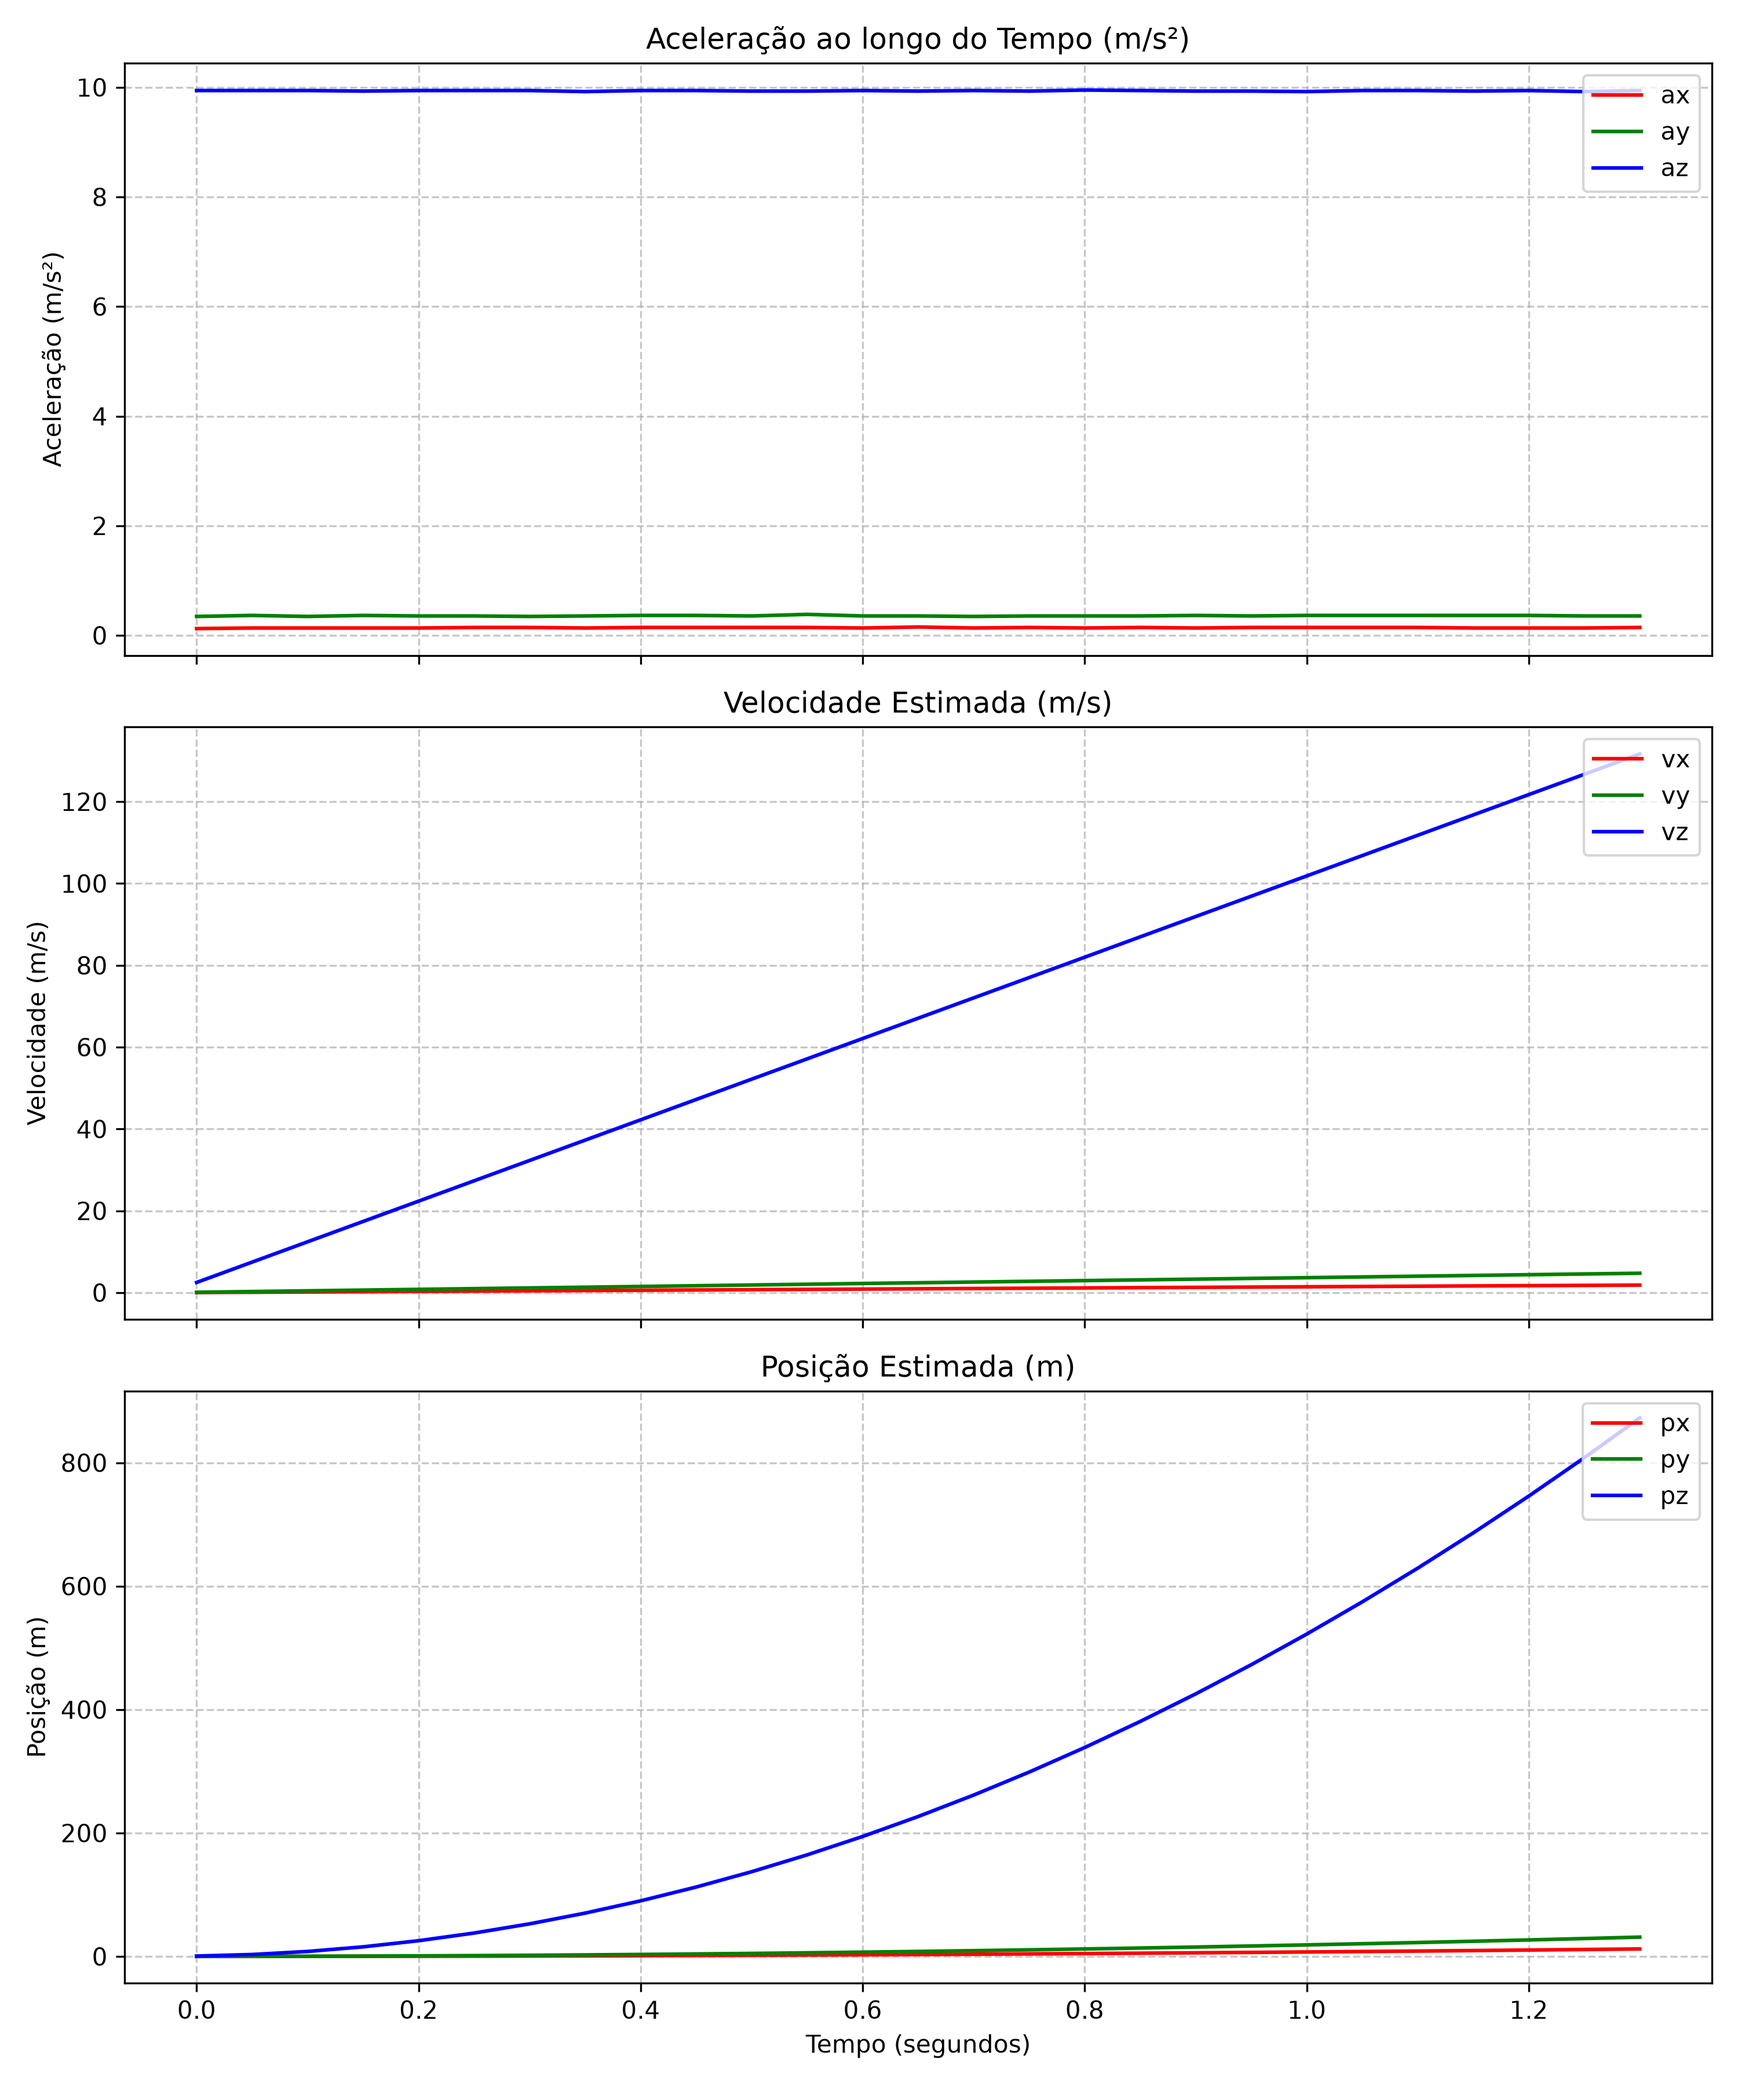
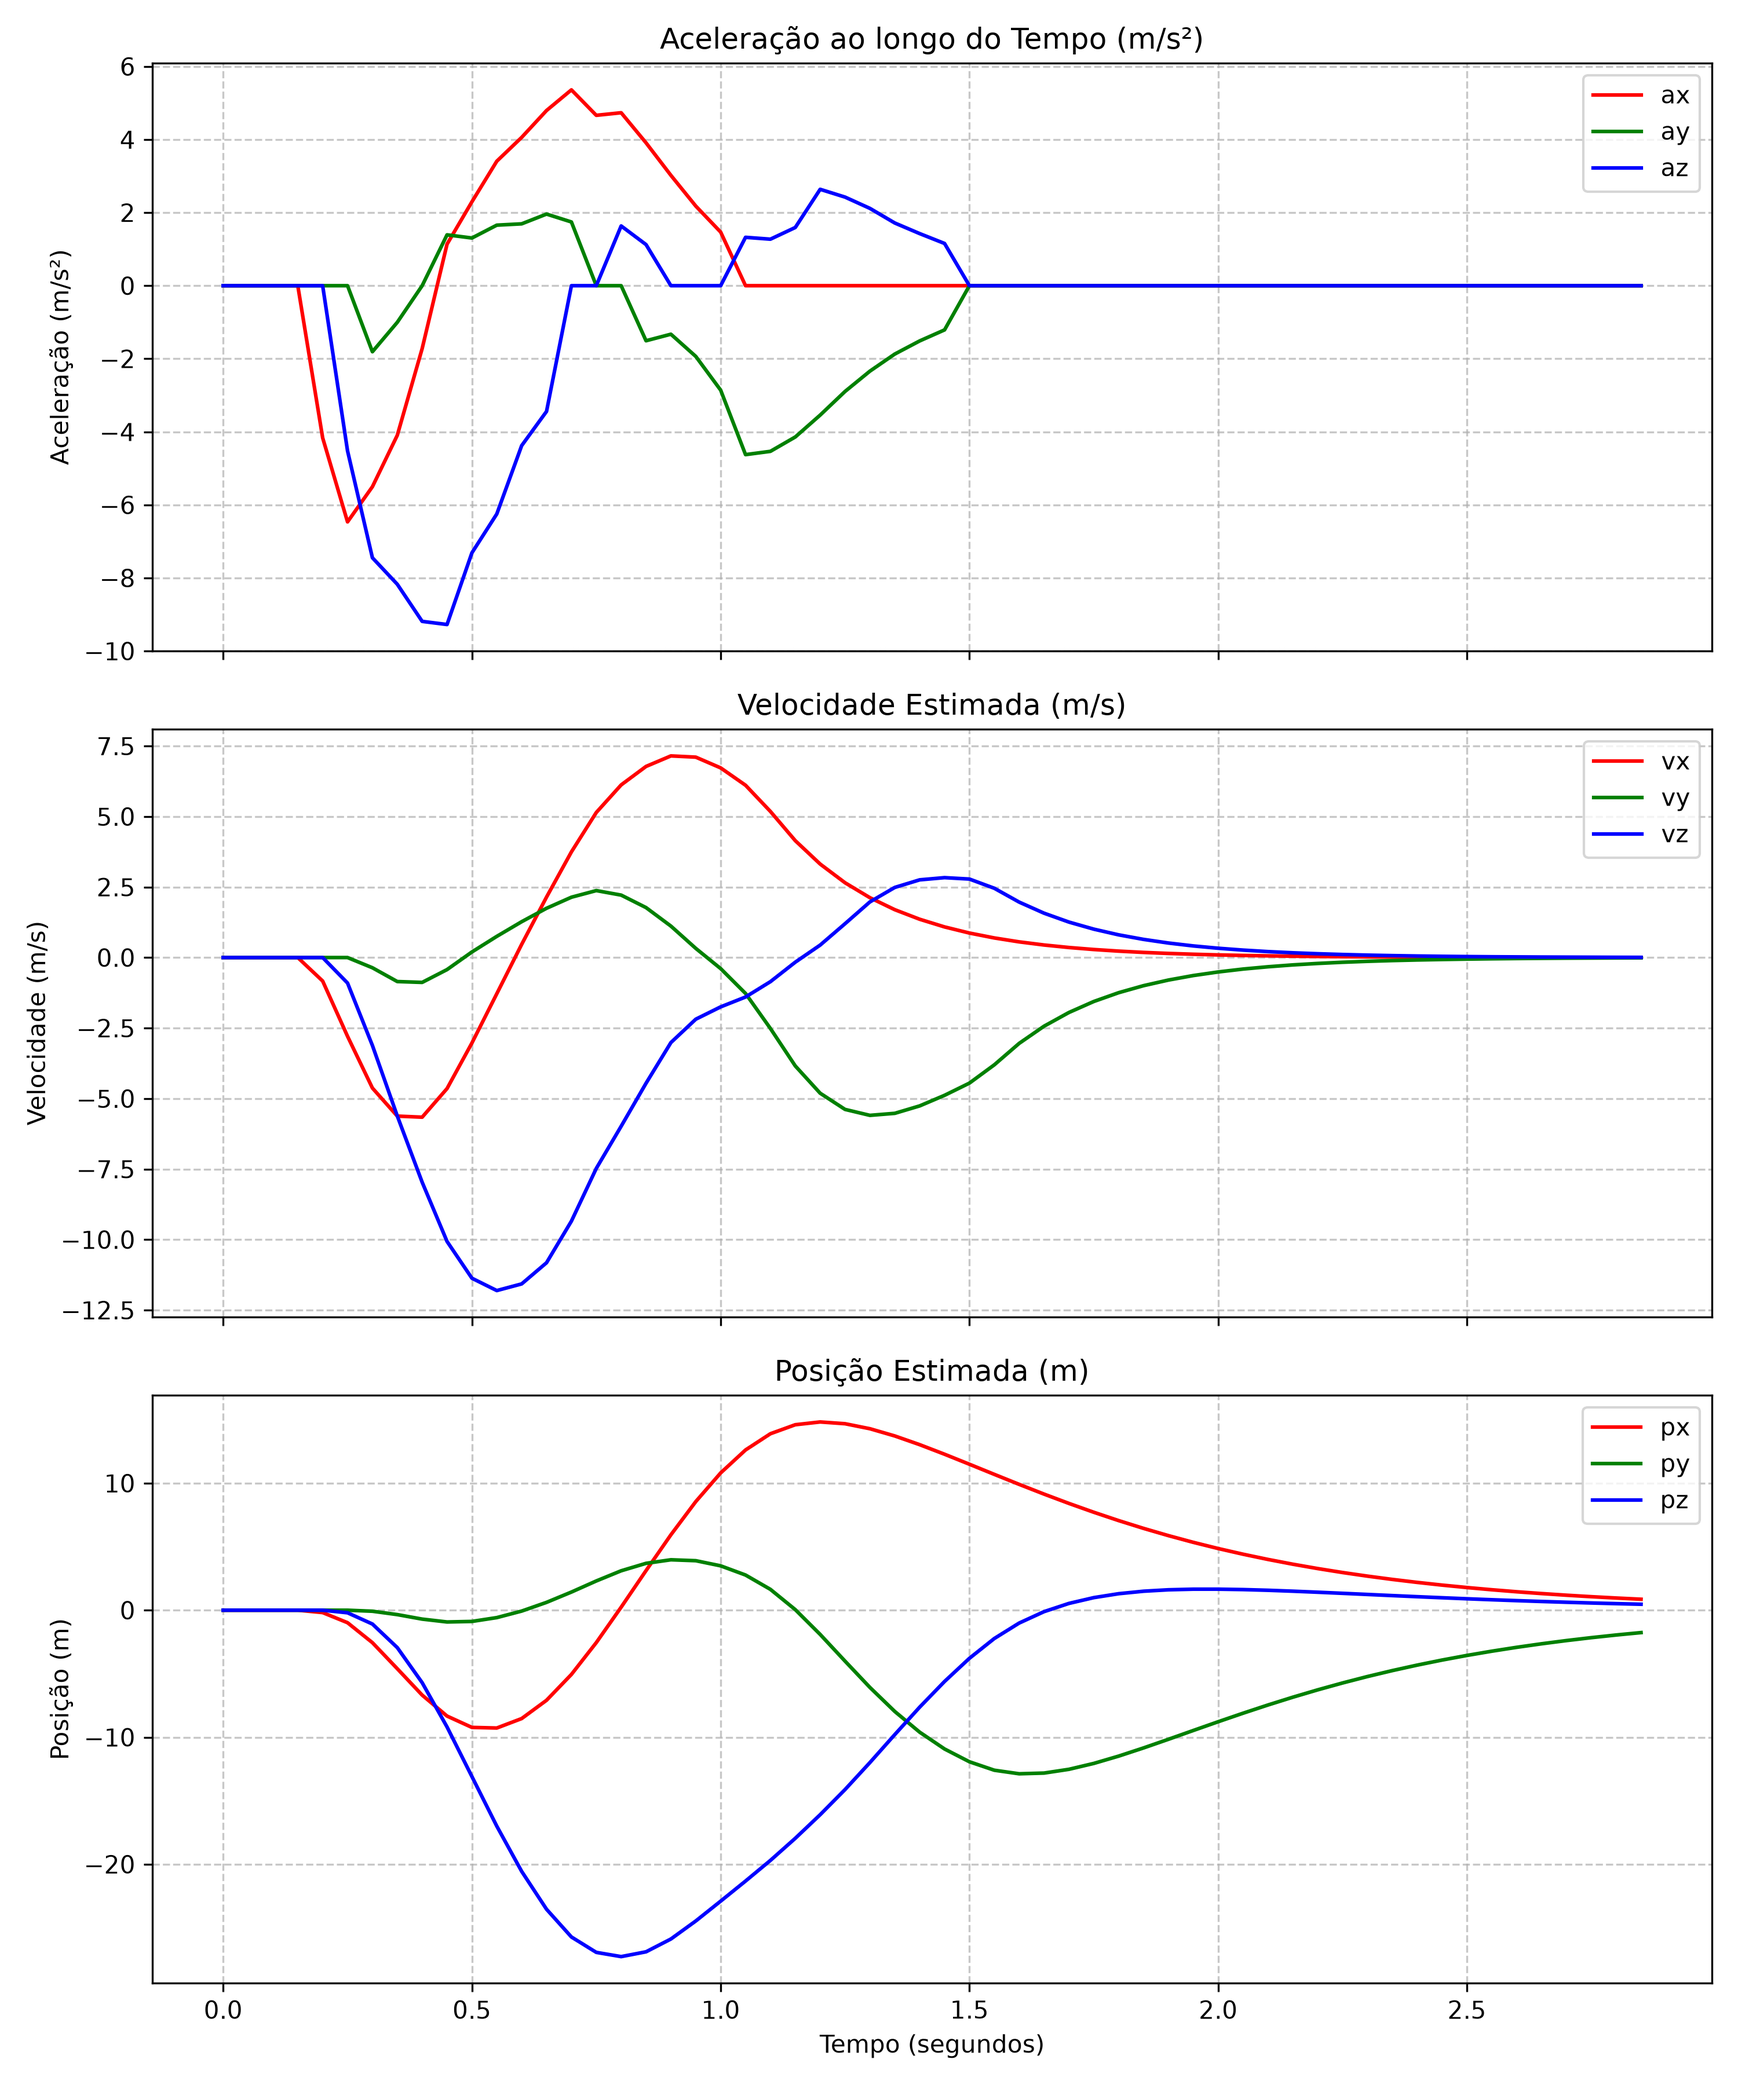
Versão definitiva

diff --git a/src/main.c b/src/main.c
@@ -20,14 +20,15 @@ void thread_aquisicao(void)
     struct sensor_value accel_x, accel_y, accel_z;
     int ret;
 
+    double grav_x = 0, grav_y = 0, grav_z = 9.81;
+
     // Verificar se o dispositivo está pronto
     if (!device_is_ready(accel)) {
         printk("ERRO: Acelerometro nao esta pronto!\n");
         return;
     }
 
-    // Pequeno delay antes de começar a enviar dados
-    k_sleep(K_MSEC(1000));
+    k_sleep(K_MSEC(1000));      // Pequeno delay antes de começar a enviar dados
 
     while (1) {
         // Solicitar leitura do sensor
@@ -44,9 +45,25 @@ void thread_aquisicao(void)
         sensor_channel_get(accel, SENSOR_CHAN_ACCEL_Y, &accel_y);
         sensor_channel_get(accel, SENSOR_CHAN_ACCEL_Z, &accel_z);
 
-		ax = sensor_value_to_double(&accel_x);
-		ay = sensor_value_to_double(&accel_y);
-		az = sensor_value_to_double(&accel_z);
+		double ax_bruto = sensor_value_to_double(&accel_x);
+		double ay_bruto = sensor_value_to_double(&accel_y);
+		double az_bruto = sensor_value_to_double(&accel_z);
+
+        // Filtro "aborve" 20% da leitura atual e mantém 80% do histórico.
+        // Calcula a componente gravitacional constante me qualquer inclinação
+        grav_x = (0.8 * grav_x) + (0.2 * ax_bruto);
+        grav_y = (0.8 * grav_y) + (0.2 * ay_bruto);
+        grav_z = (0.8 * grav_z) + (0.2 * az_bruto);
+
+        // Aceleração limpa = leitura bruta - componente da gravidade
+        double ax_mov = ax_bruto - grav_x;
+        double ay_mov = ay_bruto - grav_y;
+        double az_mov = az_bruto - grav_z;
+
+        // Zona morta: zera oscilações mínimas (ruídos) menores que 0.3 m/s^2
+        ax = (abs(ax_mov) < 0.3) ? 0 : ax_mov;
+        ay = (abs(ay_mov) < 0.3) ? 0 : ay_mov;
+        az = (abs(az_mov) < 0.3) ? 0 : az_mov;
 
         // Aguardar 500ms antes da próxima leitura
         k_sleep(K_MSEC(500));
@@ -63,6 +80,10 @@ void thread_calculo(void)
 	double ax_ant = 0, ay_ant = 0, az_ant = 0;
 	double vx_ant = 0, vy_ant = 0, vz_ant = 0;
 
+    // Fatores de recuo/atrito: puxam gradativamente os valores para 0 ao longo do tempo 
+    double atenuacao_v = 0.80;  // Velocidade decai 20% a cada meio segundo
+    double atenuacao_p = 0.90;  // Posicao decai 10% a cada meio segundo
+
     k_sleep(K_MSEC(1100));		// Espera a Thread 1 fazer a primeira leitura antes de começar
 
     while (1) {
@@ -71,10 +92,20 @@ void thread_calculo(void)
 		vy = vy_ant + (dt / 2.0) * (ay + ay_ant);
 		vz = vz_ant + (dt / 2.0) * (az + az_ant);
 
+        // Diminui gradativamente a velocidade
+        vx *= atenuacao_v;
+        vy *= atenuacao_v;
+        vz *= atenuacao_v;
+
         // Cálculo da Posição: p = p_anterior + (área do trapézio da velocidade)
 		px = px + (dt / 2.0) * (vx + vx_ant);
 		py = py + (dt / 2.0) * (vy + vy_ant);
 		pz = pz + (dt / 2.0) * (vz + vz_ant);
+
+        // Diminui gradativamente a posição
+        px *= atenuacao_p;
+        py *= atenuacao_p;
+        pz *= atenuacao_p;
 
         // Guarda os valores atuais para usar na próxima conta como "anteriores"
 		ax_ant = ax, ay_ant = ay, az_ant = az;
@@ -90,7 +121,7 @@ void thread_envio_serial(void)
 	k_sleep(K_MSEC(1200));
     
 	while (1) {
-		// Imprime os valores com algumas casas decimais
+		// Imprime os valores com algumas casas decimais (aceleracao, velocidade, posicao)
 		printk("%.3f, %.3f, %.3f, %.3f, %.3f, %.3f, %.3f, %.3f, %.3f\n", 
 				ax, ay, az, vx, vy, vz, px, py, pz);
 	
@@ -98,7 +129,9 @@ void thread_envio_serial(void)
 	}
 }
 
-	// Tamanho da pilha para cada thread
+//=============================================================================================================
+// 3. Declarações de Threads e de Prioridades
+    // Tamanho da pilha para cada thread
 	#define STACK_SIZE 1024
 
 	// Prioridades 

diff --git a/README.md b/README.md
@@ -1,27 +1,37 @@
-How to build PlatformIO based project
+Construção do Acelerometro
 =====================================
 
-1. [Install PlatformIO Core](https://docs.platformio.org/page/core.html)
-2. Download [development platform with examples](https://github.com/platformio/platform-freescalekinetis/archive/develop.zip)
-3. Extract ZIP archive
-4. Run these commands:
+Este código é uma demonstração do funcionamento do método acelerômetro MMA8451Q, tal qual envia dados da aceleração (x, y e z) a partir do movimento da placa micrcontroladora Freedom FRDM KL25Z pela porta serial para o terminal do computador. Há dois arquivos python que extraem a leitura destes valores e convertem na forma de um gráfico, sendo assim, fácil e intutivo de visualizar o movimento em tempo real da aceleração estimada e a partir disso, a velocidade e posição estimada.
+
+A arquitetura e estrutura do código é dado da seguinte forma:
+1. O código main.c contém toda a estrutura da leitura dos dados, calculo da velocidade e posição e também da saída de dados, sendo divida entre 3 threads:
+    1. Aquisição do Sinal do acelerômetro (extrai a aceleração ocasionada pela placa)
+    2. Cálculo da velocidade e posição, utilizando a integração por Trapézios 
+    3. Envio dos três dados pela serial
+
+Lógica e Arquitetura adotada: Para a comunicação entre as threads, foi utilizado variáveis globais para compartilhar os dados entre as tarefas. O escalonador do Zephyr gerencia as threads por prioridade, sendo da ordem mais importante para a menos: "leitura do sensor" (garante que não se perca amostras) >> "cálculo" (processa os dados de leitura) >> "envio serial" (apenas imprime o que já foi calculado)
 
 ```shell
-# Change directory to example
-$ cd platform-freescalekinetis/examples/zephyr-blink
+Observações: 
+             1° e 2° Commit contém apenas a estrutura padrão do acelerômetro, sobretudo, na parte de extração do sinal.
+             3° Commit apresenta o código funcional e pronto do acelerômetro, mas faltando detalhes e retoques para adptação aos arquivos python.
+             4° Commit apresenta o código adptado e funcional para os arquivos python, agora é possível extrair os dados e visualizar por meio de gráfico.
+             5° Commit é a versão final do código, nele, foi corrigido uma interpretação de que a placa está sempre em queda livre. Agora a placa apresenta um comportamento semelhante com a realidade
 
-# Build project
-$ pio run
+Adpatações feitas:
+             O arquivo leitor_serial.py foi alterado sob sugestões de IA generativa para que pudesse permitir registrar os valores seriais no arquivo .csv, tal arquivo armaneza a saída serial para ser lida pela geradora de gráfico, a sua versão anterior não permitia que lesse as impressões no serial, a alteração feita fez revogar isso e permitir qualquer tipo de leitura.
+             Para o código final, as adaptações feitas para suavizar e apaziguar o efeito "queda livre" foram feitas de maneira opcional, afim de complementar a tarefa encarregada.
 
-# Upload firmware
-$ pio run --target upload
+Como executar:
+             Como uma placa freddom em mãos, basta realizar build e compilar para a placa - verifique de ter limpado seu framework com "clear". Uma vez realizado isso, insira no terminal o seguinte comando:             
+              
+             python leitor_serial.py
 
-# Build specific environment
-$ pio run -e frdm_k64f
+             Em seguida, realize as medidas conforme vai movimentando a placa e encerre a leitura apertando CRTL + C. Uma vez isso, os dados imprimidos no terminal pararão em um novo arquivo criado chamado de "dados_cinematicos.csv". É neste arquivo que o segundo arquivo python entrará em ação.
 
-# Upload firmware for the specific environment
-$ pio run -e frdm_k64f --target upload
+             Tendo concluido isto, basta novamente colocar no terminal:
+             
+             python gerar_graficos.py
 
-# Clean build files
-$ pio run --target clean
-```
+             E assim criará um novo arquivo de um gráfico contendo os valores registrados no movimento da placa.
+     
